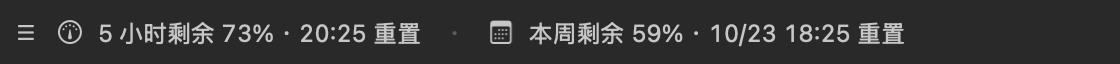
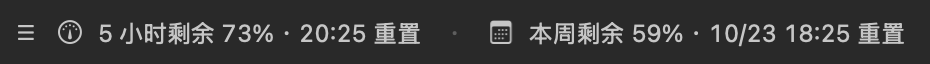
fix: fit quota bar width to its content

Changed region(s): [[0.0, 0.3125, 0.9978, 0.7188]]

diff --git a/plugin/Sources/Overlay.swift b/plugin/Sources/Overlay.swift
@@ -47,7 +47,7 @@ final class StripView: NSView {
             return
         }
         var groups = controller.summary(snapshot, compact: false)
-        if groups.map({ width($0) }).reduce(0, +) + 86 > bounds.width {
+        if contentWidth(groups) > bounds.width {
             groups = controller.summary(snapshot, compact: true)
         }
         var x: CGFloat = 28
@@ -61,6 +61,23 @@ final class StripView: NSView {
             drawText(group, at: x, color: textColor)
             x += width(group) + 14
         }
+    }
+
+    func preferredWidth(maximum: CGFloat) -> CGFloat {
+        if let error = controller?.currentError {
+            return min(maximum, ceil(40 + width(error + " · 点击重试")))
+        }
+        guard let controller, let snapshot = controller.snapshot else {
+            return min(maximum, ceil(40 + width("正在读取 Codex 额度…")))
+        }
+        let full = controller.summary(snapshot, compact: false)
+        let groups = contentWidth(full) <= maximum ? full : controller.summary(snapshot, compact: true)
+        return min(maximum, ceil(contentWidth(groups)))
+    }
+
+    private func contentWidth(_ groups: [String]) -> CGFloat {
+        // 左侧拖动区 28、每组图标 21、组间距 33、右侧留白 12。
+        28 + groups.map { width($0) + 21 }.reduce(0, +) + CGFloat(max(0, groups.count - 1)) * 33 + 12
     }
 
     private func width(_ text: String) -> CGFloat {
@@ -233,7 +250,8 @@ final class OverlayController: NSObject, NSApplicationDelegate {
         hostFrame = host
         visibilityReason = "visible"
         if !isDragging {
-            let size = NSSize(width: min(560, max(280, host.width - 24)), height: 32)
+            let maximum = max(280, host.width - 24)
+            let size = NSSize(width: strip.preferredWidth(maximum: maximum), height: 32)
             panel.setContentSize(size)
             let defaultX = host.width > 900 ? 0.7 : 0.5
             let x = settings.object(forKey: "positionX") == nil ? defaultX : settings.double(forKey: "positionX")

diff --git a/tests/Preview.swift b/tests/Preview.swift
@@ -16,15 +16,16 @@ struct Preview {
             ("dark", NSAppearance.Name.darkAqua, NSColor(calibratedWhite: 0.12, alpha: 1))
         ] {
             controller.strip.appearance = NSAppearance(named: appearanceName)
-            controller.panel.setContentSize(NSSize(width: 560, height: 32))
-            let bitmap = NSBitmapImageRep(bitmapDataPlanes: nil, pixelsWide: 1120, pixelsHigh: 64,
+            let size = NSSize(width: controller.strip.preferredWidth(maximum: 560), height: 32)
+            controller.panel.setContentSize(size)
+            let bitmap = NSBitmapImageRep(bitmapDataPlanes: nil, pixelsWide: Int(size.width * 2), pixelsHigh: 64,
                 bitsPerSample: 8, samplesPerPixel: 4, hasAlpha: true, isPlanar: false,
                 colorSpaceName: .deviceRGB, bytesPerRow: 0, bitsPerPixel: 0)!
-            bitmap.size = NSSize(width: 560, height: 32)
+            bitmap.size = size
             NSGraphicsContext.saveGraphicsState()
             NSGraphicsContext.current = NSGraphicsContext(bitmapImageRep: bitmap)
             background.setFill()
-            NSRect(x: 0, y: 0, width: 560, height: 32).fill()
+            NSRect(origin: .zero, size: size).fill()
             controller.strip.appearance!.performAsCurrentDrawingAppearance {
                 controller.strip.draw(controller.strip.bounds)
             }

diff --git a/plugin/Sources/CodexClient.swift b/plugin/Sources/CodexClient.swift
@@ -108,7 +108,7 @@ final class CodexClient {
         do {
             try child.run()
             send(["id": 0, "method": "initialize", "params": ["clientInfo": [
-                "name": "codex_quota_bar", "title": "Codex Quota Bar", "version": "0.1.0"
+                "name": "codex_quota_bar", "title": "Codex Quota Bar", "version": "0.1.1"
             ]]])
         } catch { fail("无法启动 Codex CLI") }
     }

diff --git a/README.md b/README.md
@@ -15,7 +15,7 @@ A small native macOS companion for Codex usage limits, reset times, and a dragga
 
 适用 **macOS 13+，Apple 芯片或 Intel Mac**。需要已经安装并使用 ChatGPT 账户登录 Codex，且账户提供对应额度窗口。**Windows / Linux 暂不支持。**
 
-1. 打开 [Releases](https://github.com/wdkwdk/codex-quota-bar/releases/latest)，下载 `CodexQuotaBar-v0.1.0-macos-universal.zip` 并解压。
+1. 打开 [Releases](https://github.com/wdkwdk/codex-quota-bar/releases/latest)，下载 `CodexQuotaBar-v0.1.1-macos-universal.zip` 并解压。
 2. 双击解压目录里的 `install.command`；也可在终端输入 `sh `（末尾有空格），把目录里的 `scripts/install.sh` 拖进去，再按回车。
 3. 安装完成后，打开 Codex，在新聊天中输入 `@`，选择 **Codex 额度条**，发送“启动”。也可执行：
 
